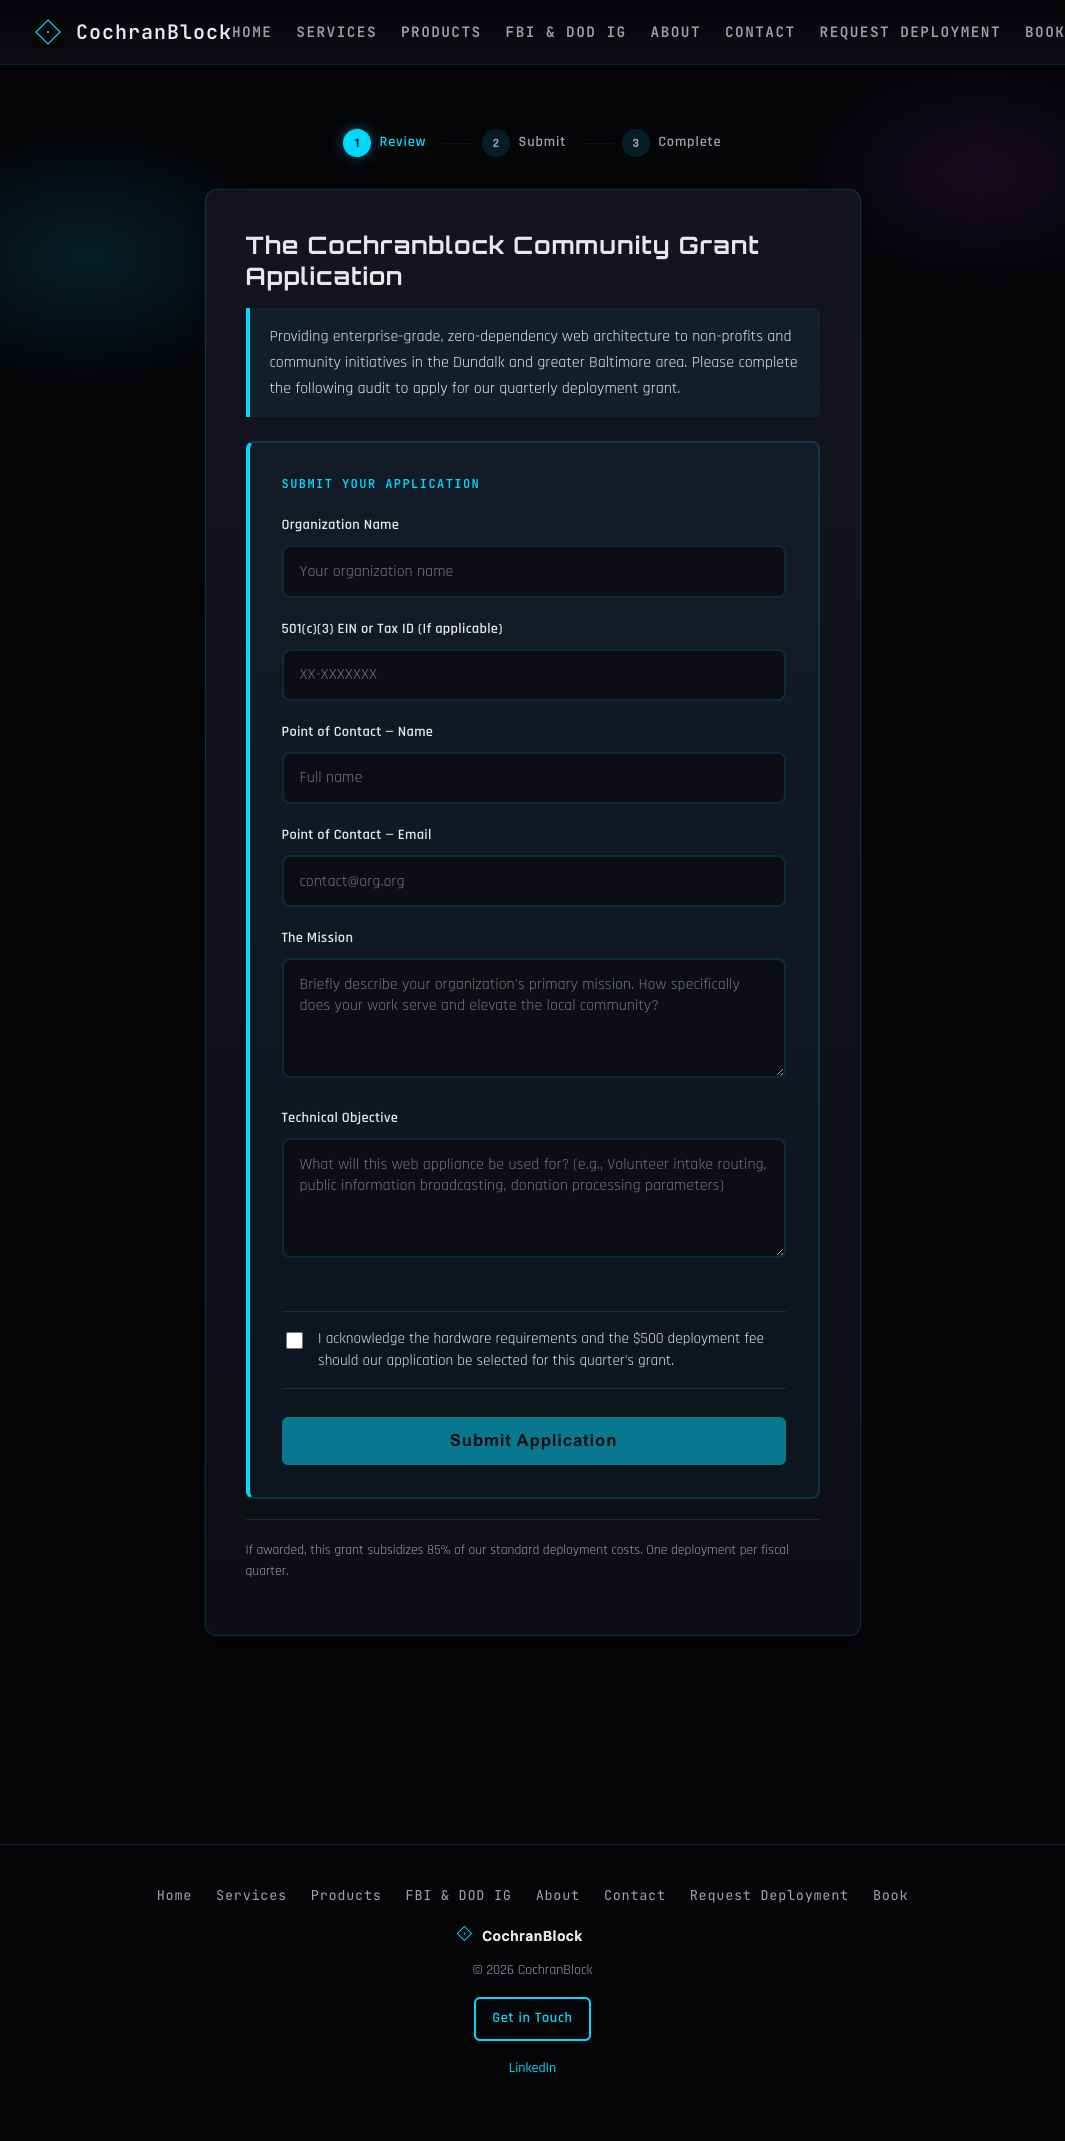
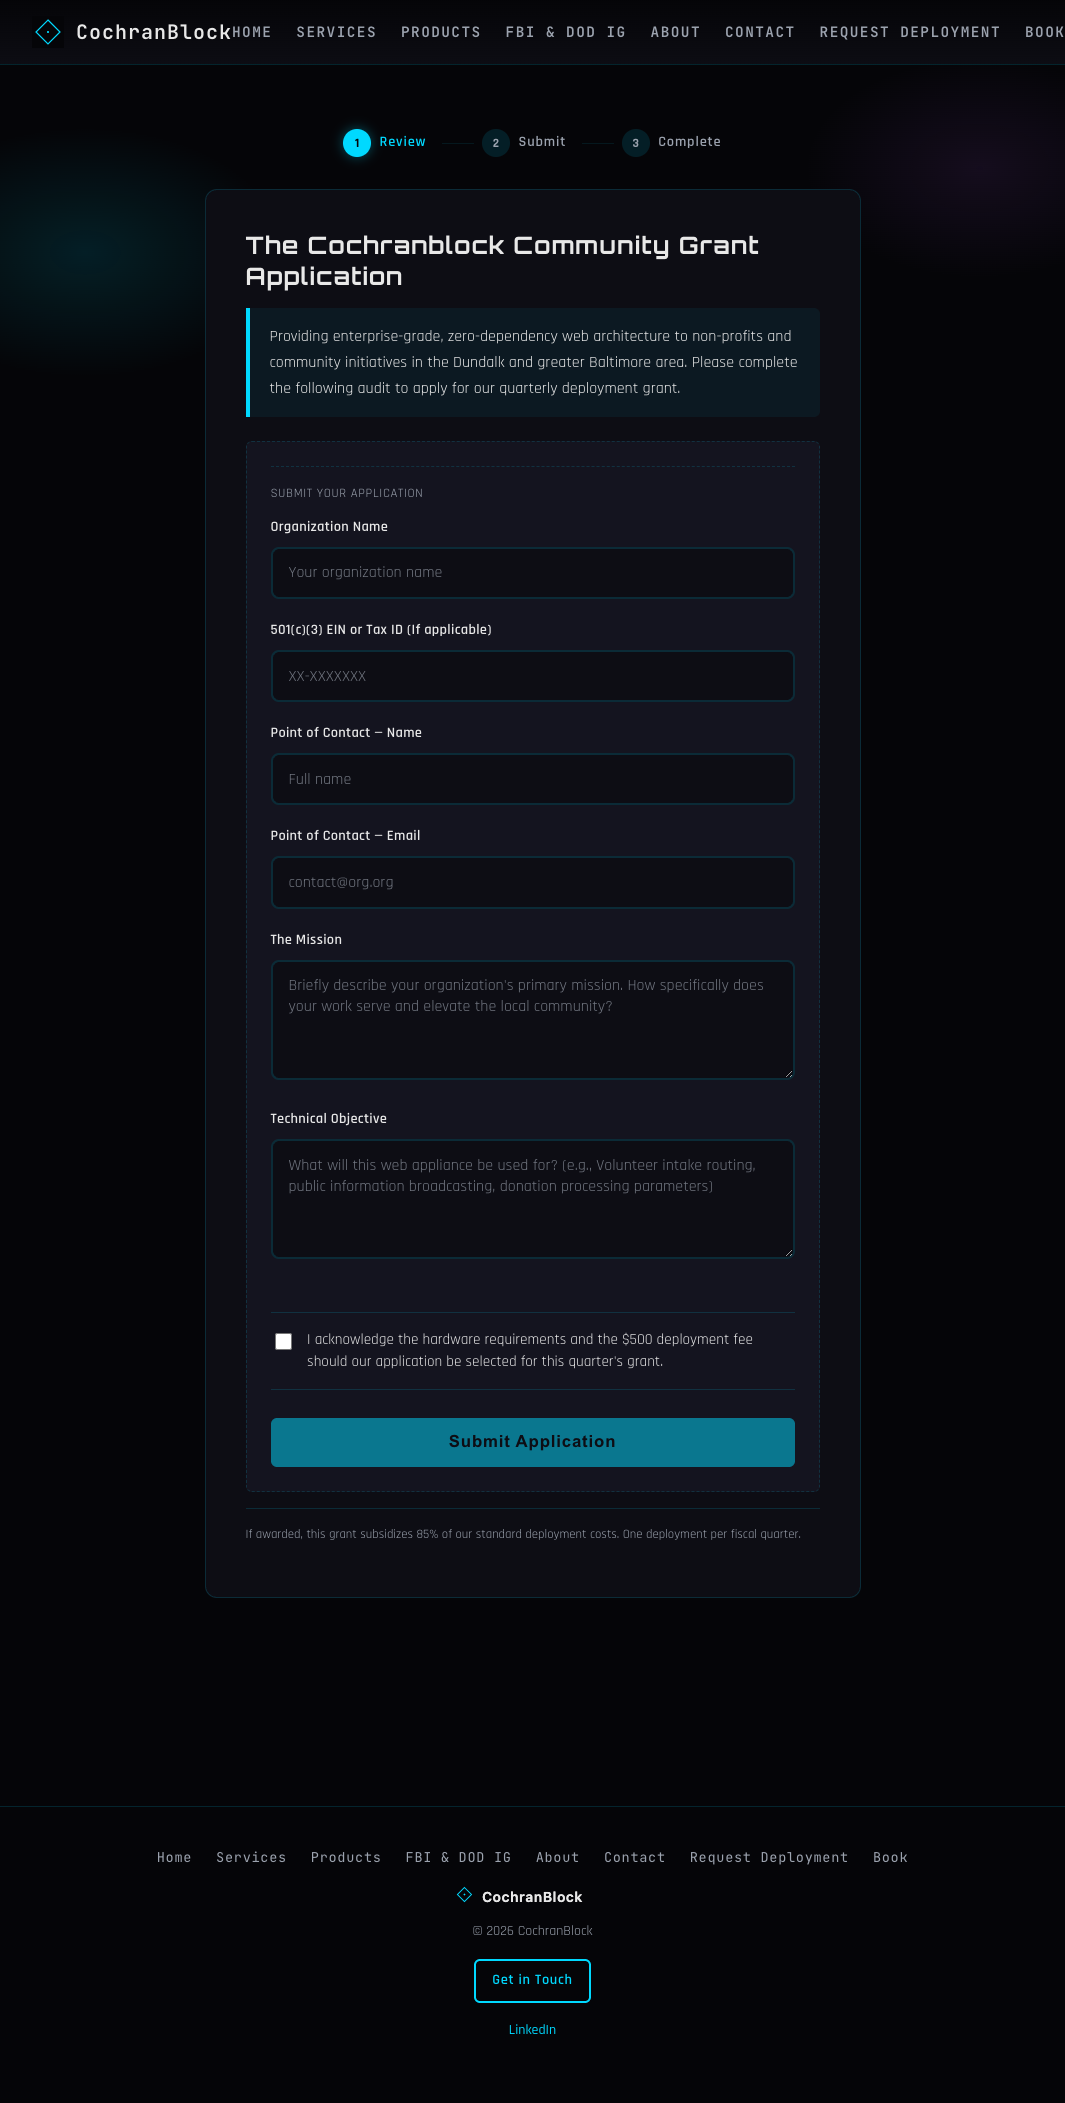
Replicate oakilydokily waiver styling to intake/community-grant
Based on oakilydokily-test triple_sims waiver screenshots:
- .intake-doc: flat surface (was gradient)
- .intake-body: rgba(0,0,0,0.2) like .ds-body
- .intake-hint: warm orange, simple (no callout box)
- .intake-sign: dashed border, surface-elevated bg
- .intake-line: visible dashed line
- .intake-sign-label: muted, uppercase, letter-spacing
- .intake-note: border-top, smaller font

Made-with: Cursor

diff --git a/assets/css/main.css b/assets/css/main.css
@@ -2660,12 +2660,12 @@ body[data-page="community-grant-confirmed"] .content {
   box-shadow: 0 0 12px rgba(0, 217, 255, 0.4);
 }
 
+/* Replicated from oakilydokily waiver (.ds-doc) */
 .intake-doc {
-  background: linear-gradient(180deg, var(--surface-elevated) 0%, var(--surface) 100%);
+  background: var(--surface);
   border-radius: 12px;
   padding: 2.5rem;
   border: 1px solid var(--border);
-  box-shadow: 0 4px 24px rgba(0, 0, 0, 0.4), 0 0 0 1px rgba(0, 217, 255, 0.05);
 }
 
 .intake-title {
@@ -2694,14 +2694,15 @@ body[data-page="community-grant"] .intake-intro {
   color: var(--text);
 }
 
+/* Replicated from oakilydokily waiver (.ds-body) */
 .intake-body {
   max-height: 280px;
   overflow-y: auto;
-  padding: 1.5rem 1.75rem;
-  background: rgba(0, 0, 0, 0.35);
+  padding: 1.25rem 1.5rem;
+  background: rgba(0, 0, 0, 0.2);
   border: 1px solid var(--border);
-  border-radius: 8px;
-  margin-bottom: 1.25rem;
+  border-radius: var(--radius-sm);
+  margin-bottom: 1rem;
   font-size: 0.9rem;
   line-height: 1.7;
   color: var(--text);
@@ -2732,38 +2733,36 @@ body[data-page="community-grant"] .intake-intro {
   color: var(--text);
 }
 
+/* Replicated from oakilydokily waiver (.ds-hint) — warm, visible */
 .intake-hint {
-  font-size: 0.9rem;
-  color: var(--cyber-teal);
-  margin: 0 0 1.25rem;
-  padding: 0.6rem 1rem;
-  background: rgba(0, 255, 204, 0.08);
-  border: 1px solid rgba(0, 255, 204, 0.2);
-  border-radius: var(--radius-sm);
-  font-weight: 600;
+  font-size: 0.85rem;
+  color: var(--orange);
+  margin: -0.25rem 0 1rem;
+  font-weight: 500;
 }
 
+/* Replicated from oakilydokily waiver (.ds-sign) */
 .intake-sign {
-  border: 2px solid var(--border);
-  border-left: 4px solid var(--accent);
-  border-radius: 8px;
-  padding: 2rem;
-  margin-bottom: 1.25rem;
-  background: rgba(0, 217, 255, 0.04);
+  border: 1px dashed var(--border);
+  border-radius: var(--radius-sm);
+  padding: 1.5rem;
+  margin-bottom: 1rem;
+  background: var(--surface-elevated);
 }
 
 .intake-line {
-  display: none;
+  height: 1px;
+  border-bottom: 1px dashed var(--border);
+  margin-bottom: 1rem;
 }
 
+/* Replicated from oakilydokily waiver (.ds-sign-label) */
 .intake-sign-label {
-  font-family: 'JetBrains Mono', monospace;
-  font-size: 0.75rem;
-  font-weight: 600;
-  color: var(--accent);
-  margin: 0 0 1.25rem;
+  font-size: 0.8rem;
+  color: var(--muted);
+  margin: 0 0 0.75rem;
   text-transform: uppercase;
-  letter-spacing: 0.12em;
+  letter-spacing: 0.05em;
 }
 
 .intake-form label:not(.intake-check) {
@@ -2855,11 +2854,12 @@ body[data-page="community-grant"] .intake-form textarea {
   cursor: not-allowed;
 }
 
+/* Replicated from oakilydokily waiver (.ds-note) */
 .intake-note {
-  font-size: 0.85rem;
+  font-size: 0.8rem;
   color: var(--muted);
-  margin-top: 1.25rem;
-  padding-top: 1.25rem;
+  margin-top: 1rem;
+  padding-top: 1rem;
   border-top: 1px solid var(--border);
   line-height: 1.5;
 }
